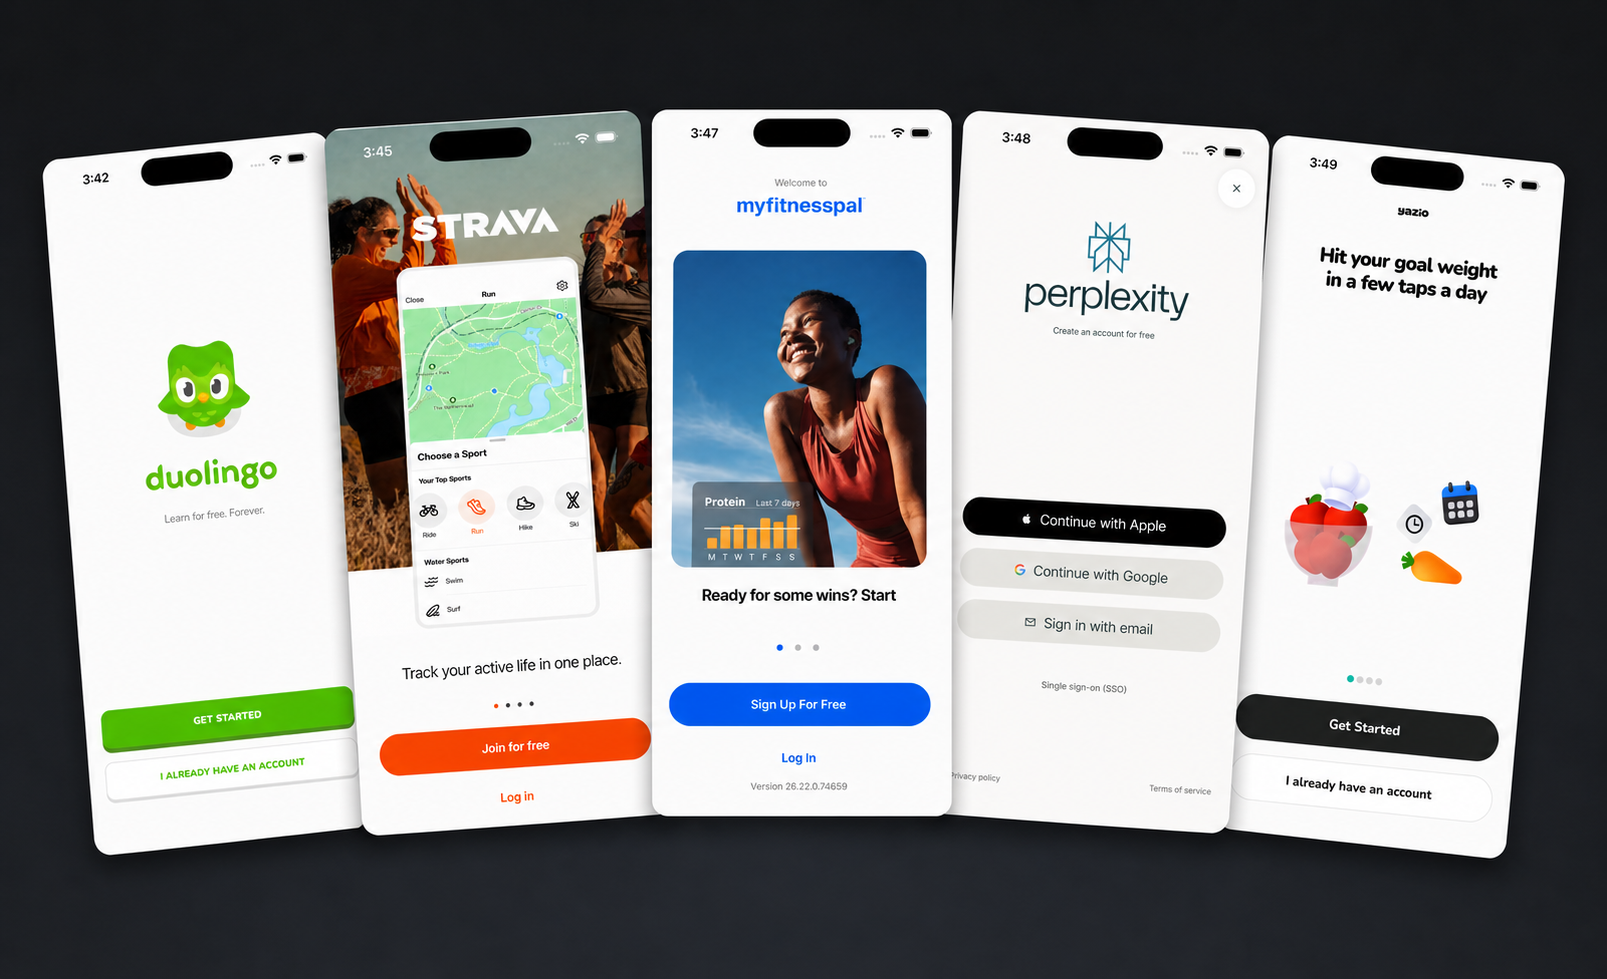
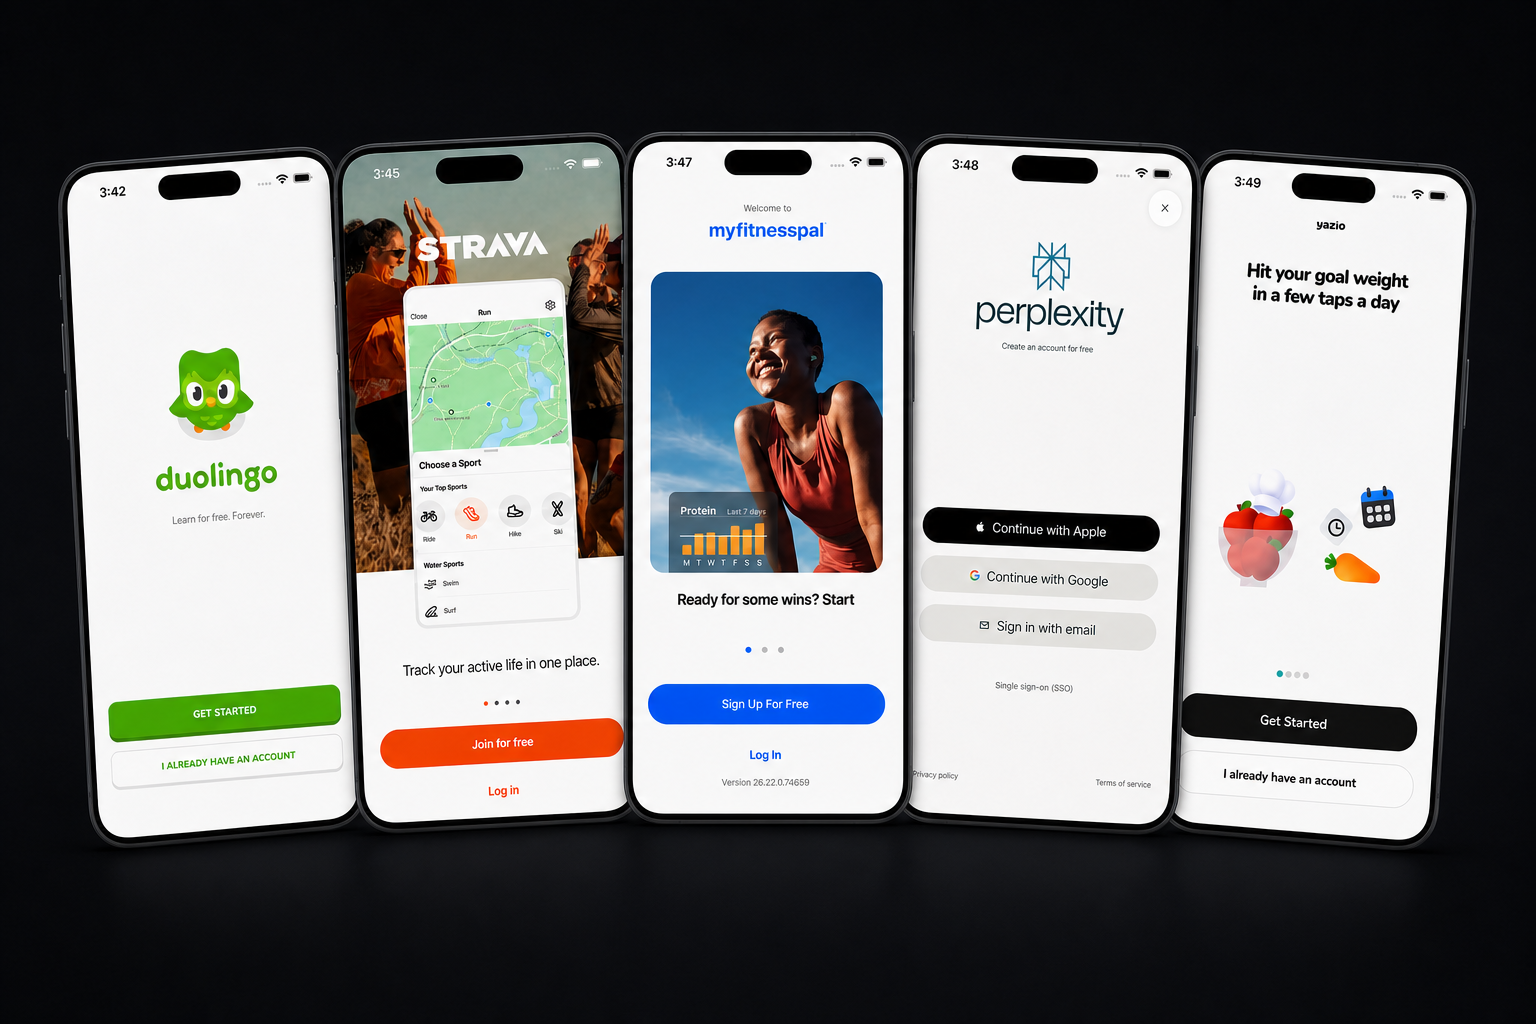
docs: polish welcome screen showcase panels

diff --git a/docs/ASSET_PROVENANCE.md b/docs/ASSET_PROVENANCE.md
@@ -27,10 +27,10 @@ Brand-identifying names and artwork remain subject to the rights described in [`
 | --- | --- |
 | `docs/images/appllama-logo-dark.png` | Official Appllama logo downloaded from `https://public.appllama.io/appllama-logo-dark.png` for dark GitHub surfaces. |
 | `docs/images/appllama-logo-light.png` | Official Appllama light-surface logo variant downloaded from `https://public.appllama.io/appllama-logo-light.png`. |
-| `docs/images/welcome-screens-showcase-01.png` | GPT Image 2 composition generated through the Codex ImageGen workflow from simulator captures of this repository's Duolingo, Strava, MyFitnessPal, Perplexity, and Yazio implementations. |
-| `docs/images/welcome-screens-showcase-02.png` | GPT Image 2 composition generated through the Codex ImageGen workflow from simulator captures of this repository's onX Hunt, Speak & Learn, Hallow, SCRL, and Speak: Language Learning implementations. |
+| `docs/images/welcome-screens-showcase-01.png` | 1536×1024 GPT Image 2 composition generated through the Codex ImageGen workflow from simulator captures of this repository's Duolingo, Strava, MyFitnessPal, Perplexity, and Yazio implementations. |
+| `docs/images/welcome-screens-showcase-02.png` | 1536×1024 GPT Image 2 composition generated through the Codex ImageGen workflow from simulator captures of this repository's onX Hunt, Speak & Learn, Hallow, SCRL, and Speak: Language Learning implementations. |
 
-The two showcase prompts treated each simulator capture as a rigid screen layer and requested a neutral charcoal editorial arrangement with no added title, logo, label, watermark, or new interface content. The original third-party reference captures were not provided to the generation step and are not embedded in these README assets.
+The two showcase prompts treated each simulator capture as a rigid screen layer and requested one matched 3:2 set: identical near-black studio backgrounds, realistic iPhone proportions, equal optical scale, aligned baselines, restrained shadows, and no added title, logo, label, watermark, or new interface content. The original third-party reference captures were not provided to the generation step and are not embedded in these README assets.
 
 ## Reference inputs
 
